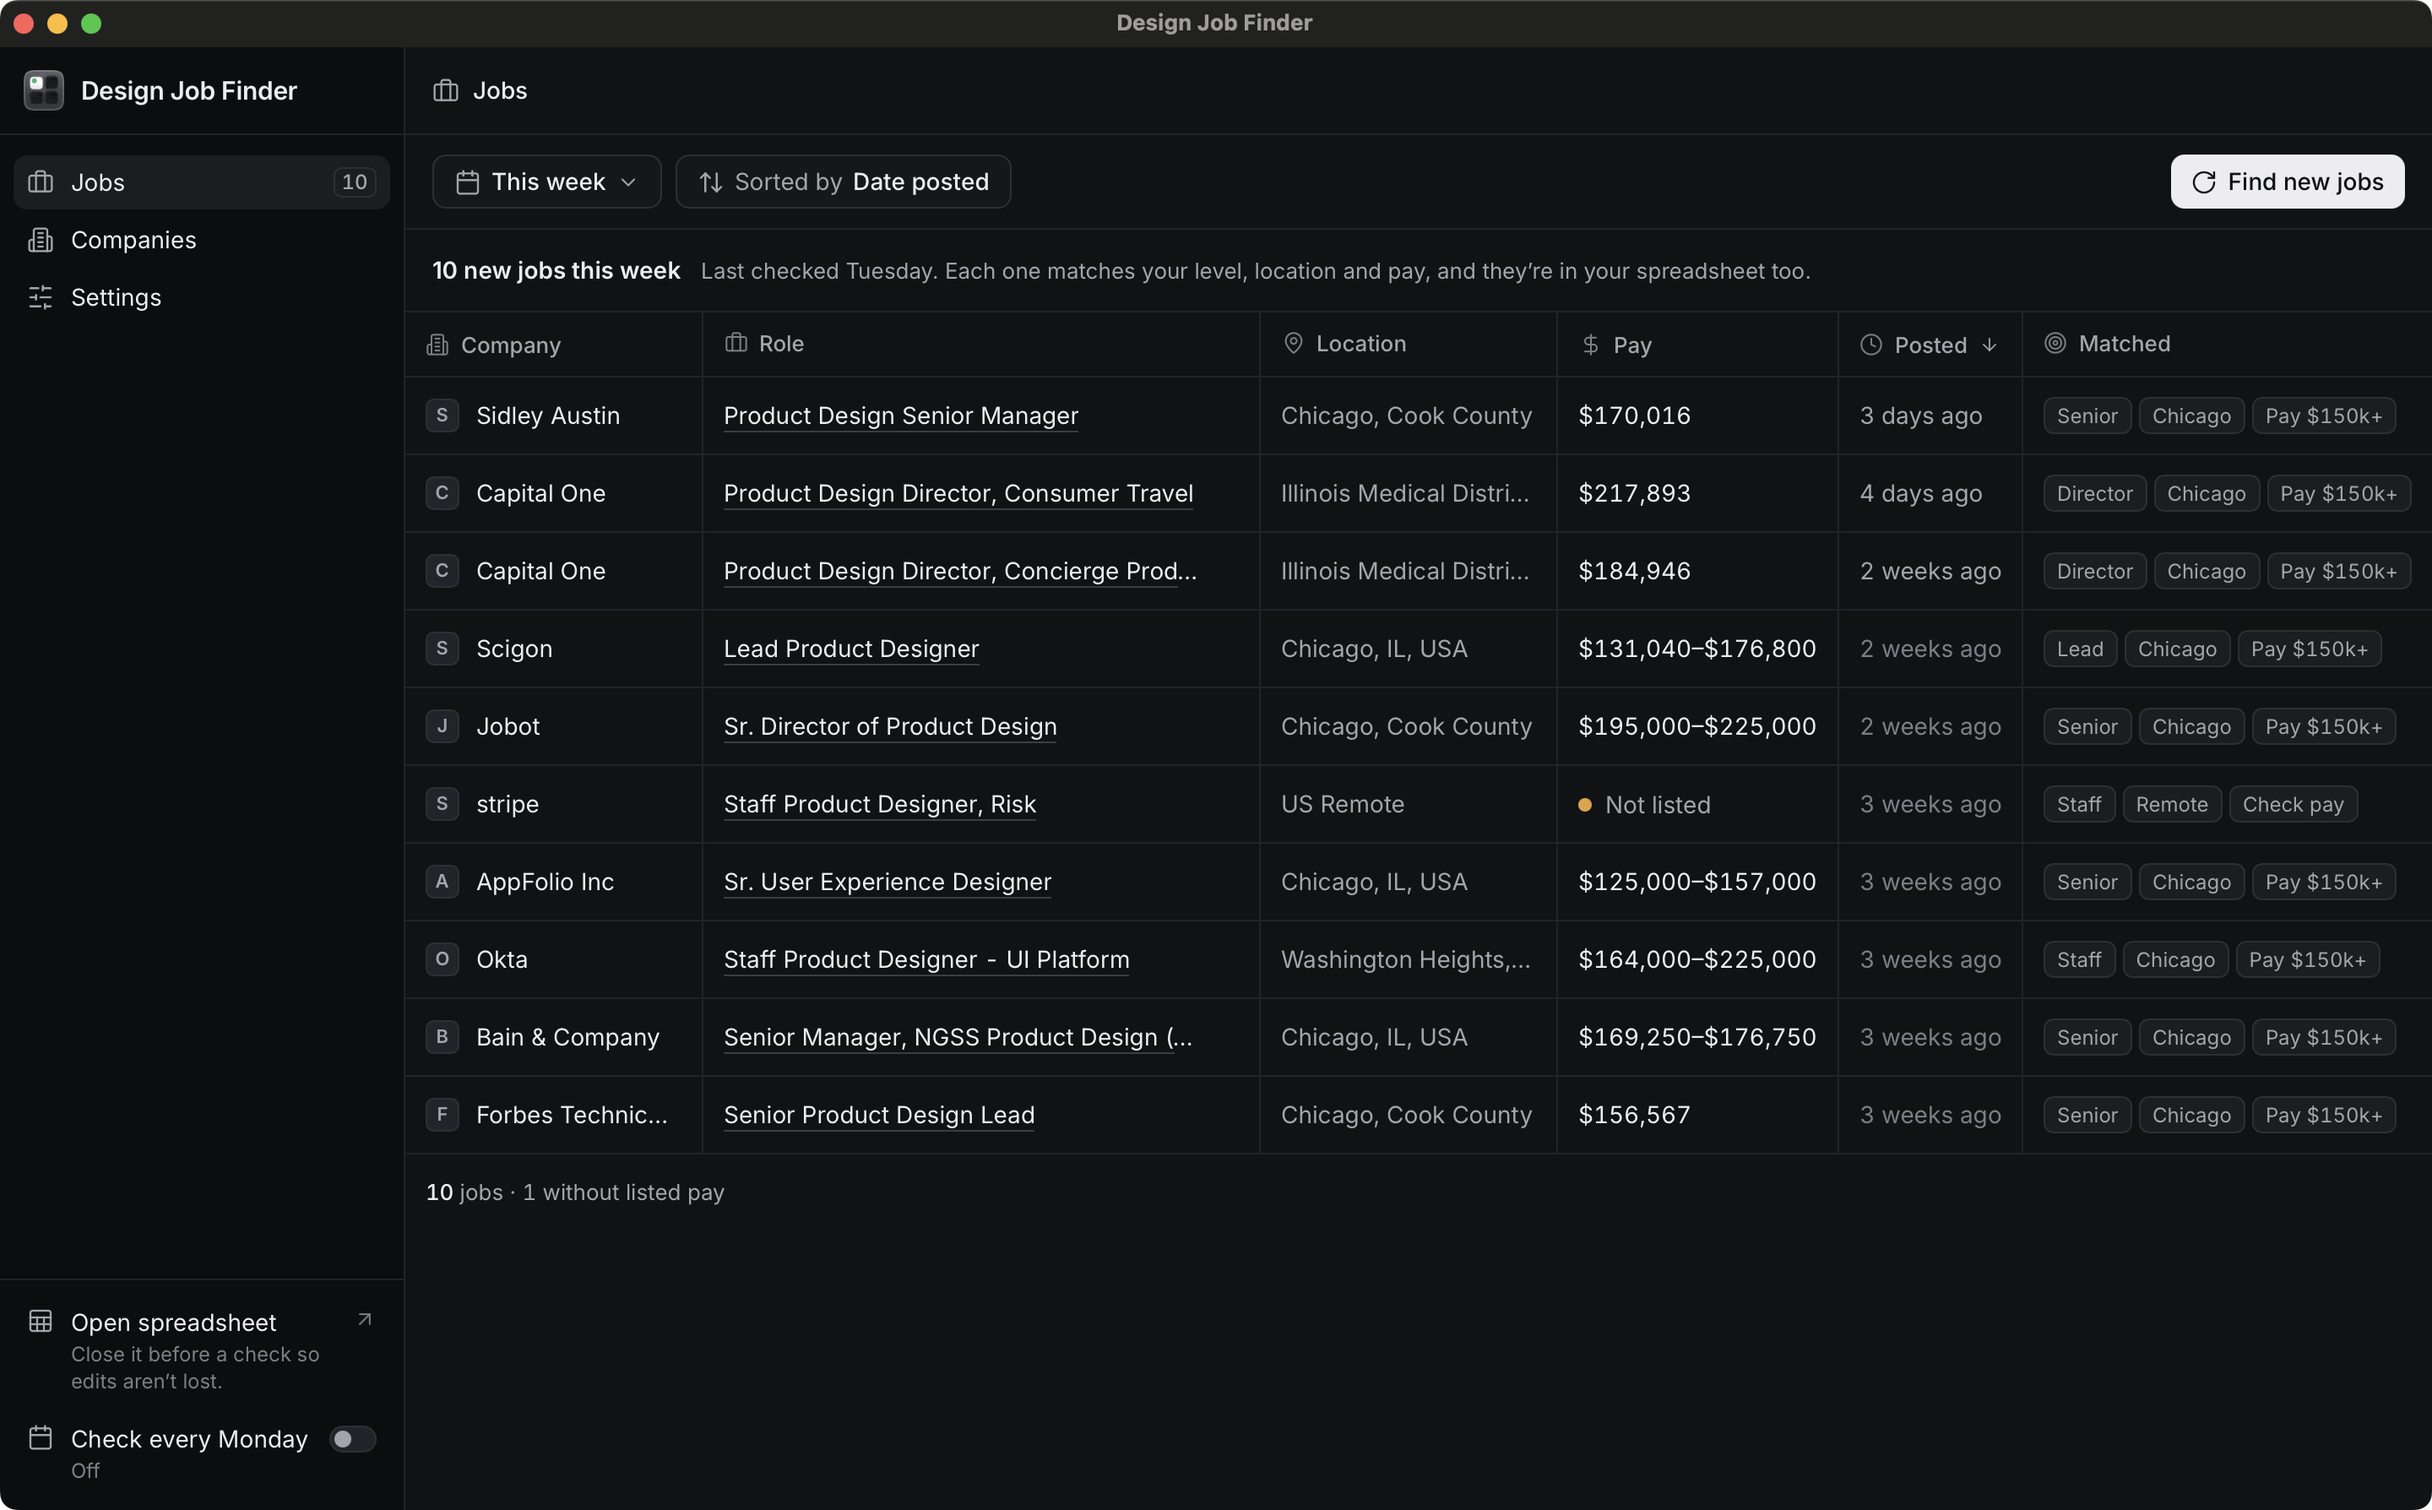
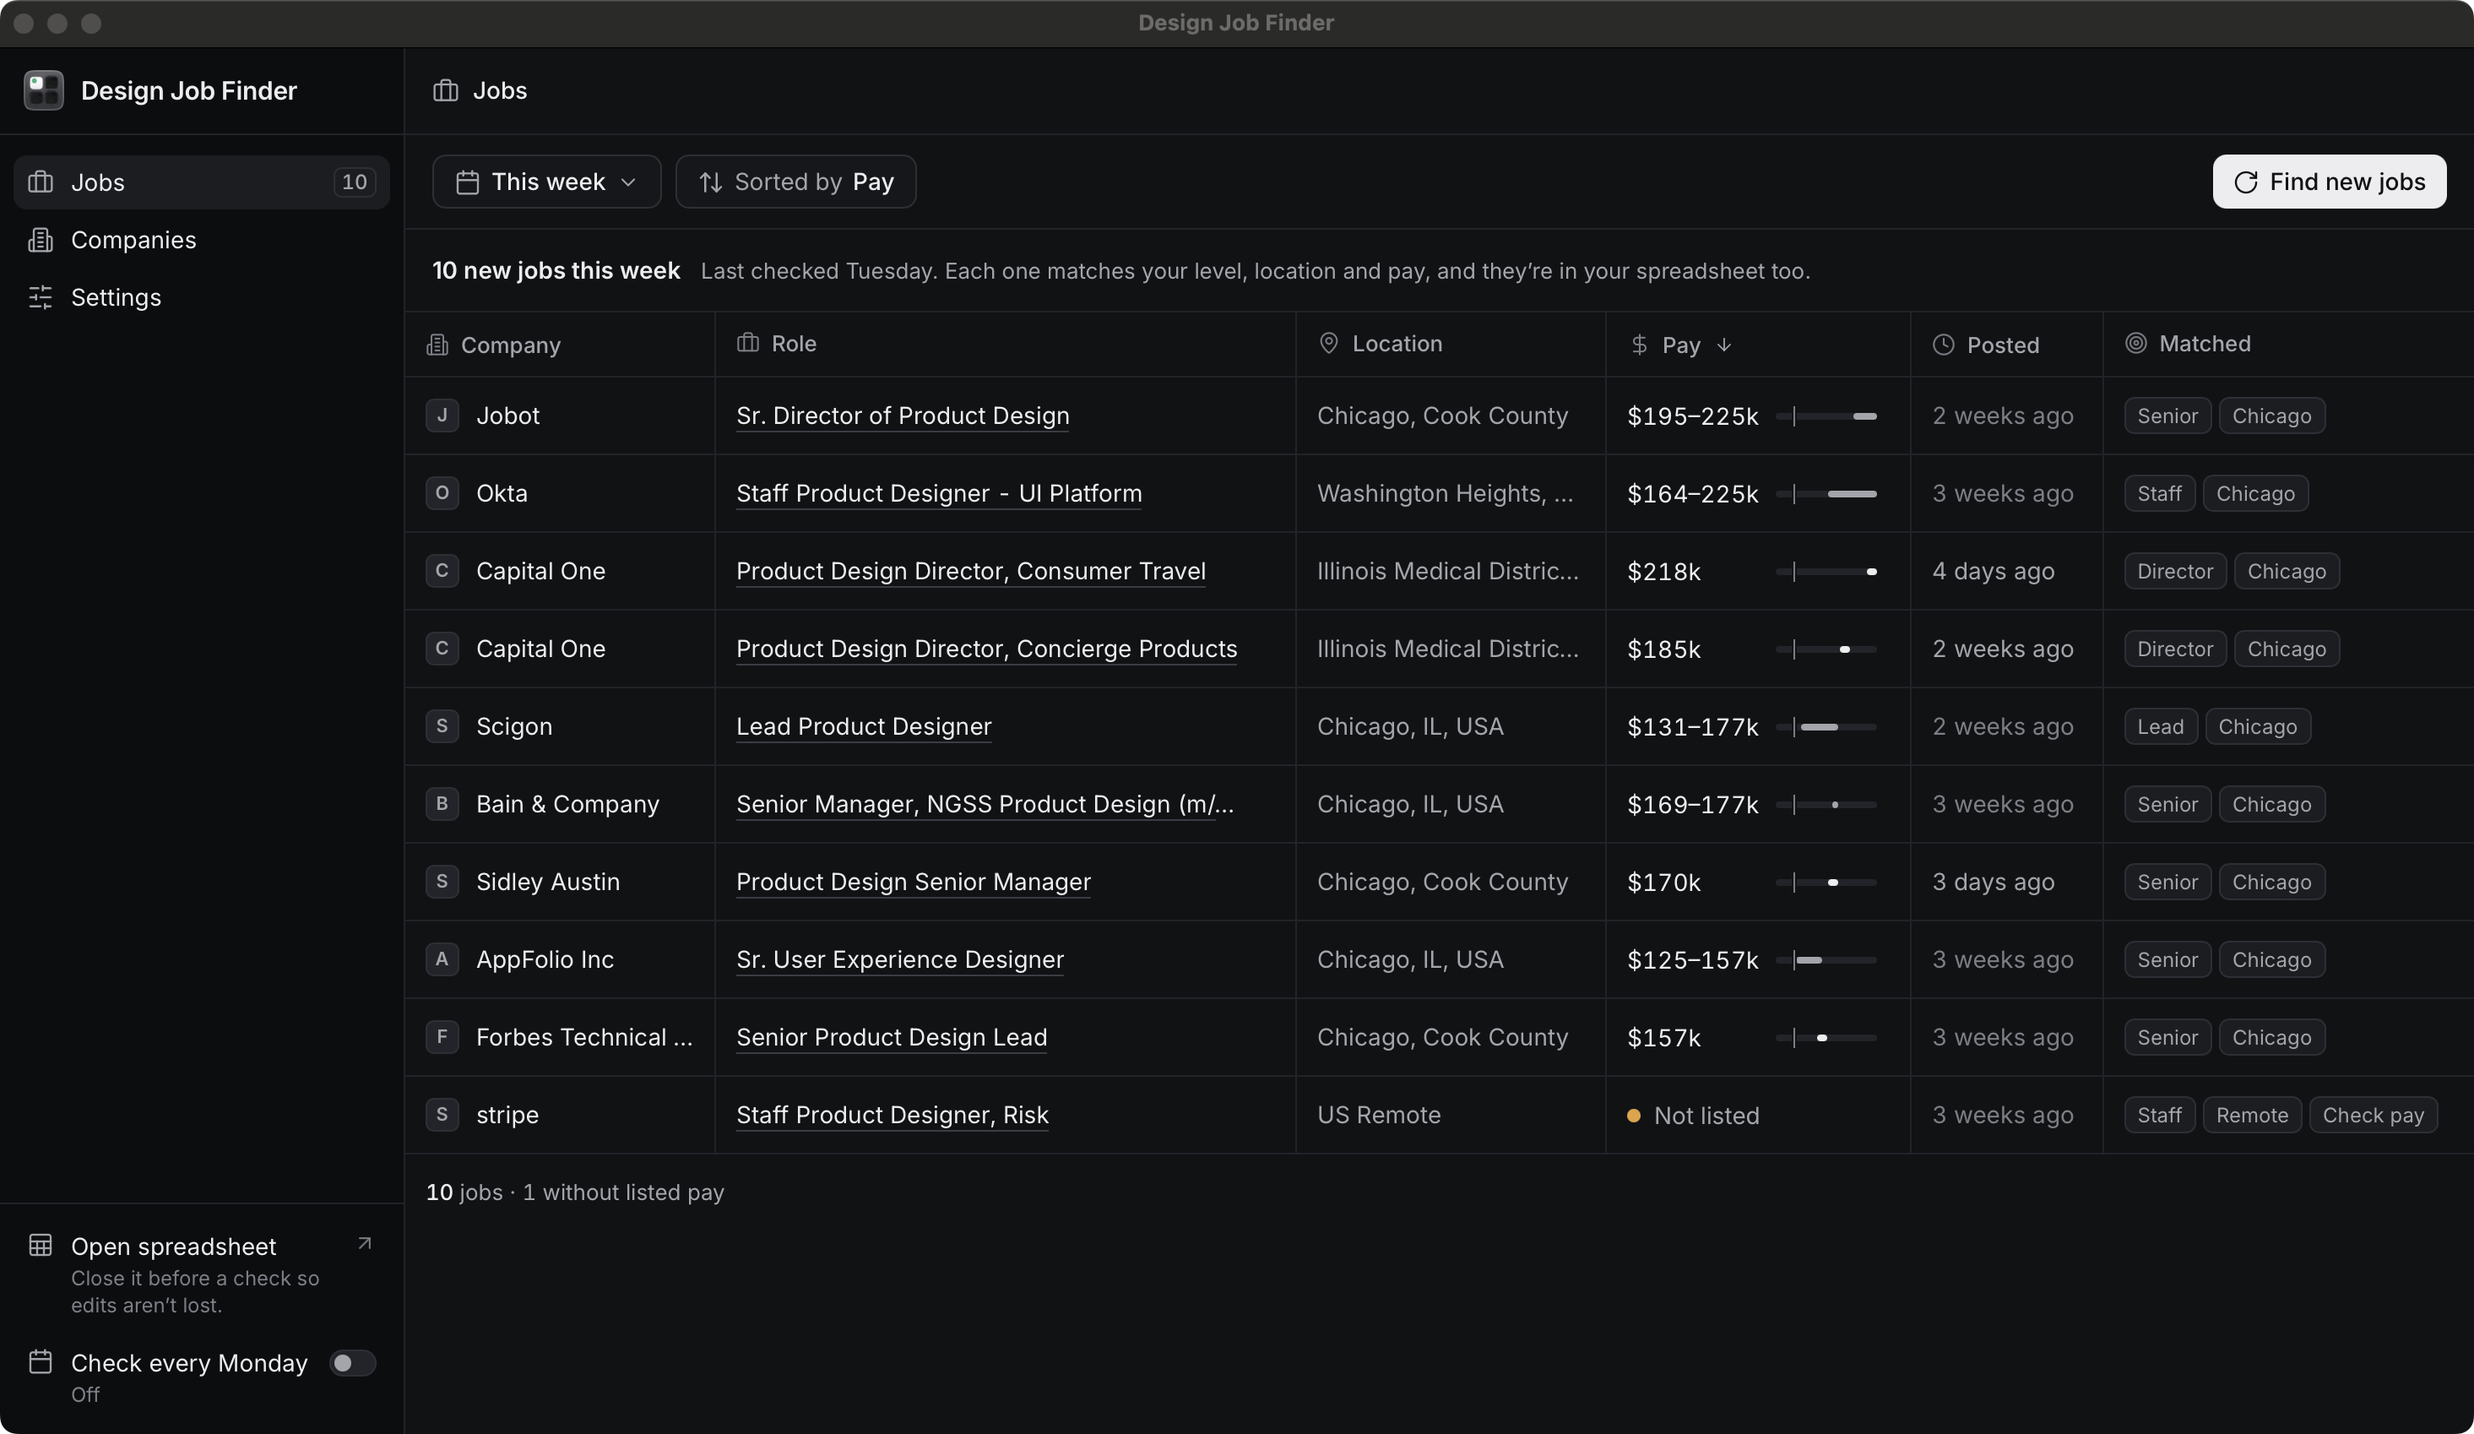
Show the pay bar in the README screenshot

diff --git a/README.md b/README.md
@@ -1,4 +1,4 @@
-![Design Job Finder showing this week's new jobs, with company, role, location, pay, how long ago each was posted, and why it matched](assets/app-screenshot.png)
+![Design Job Finder showing this week's new jobs, with company, role, location, pay (with a bar showing how it compares to your minimum), how long ago each was posted, and why it matched](assets/app-screenshot.png)
 
 # Design Job Finder
 
